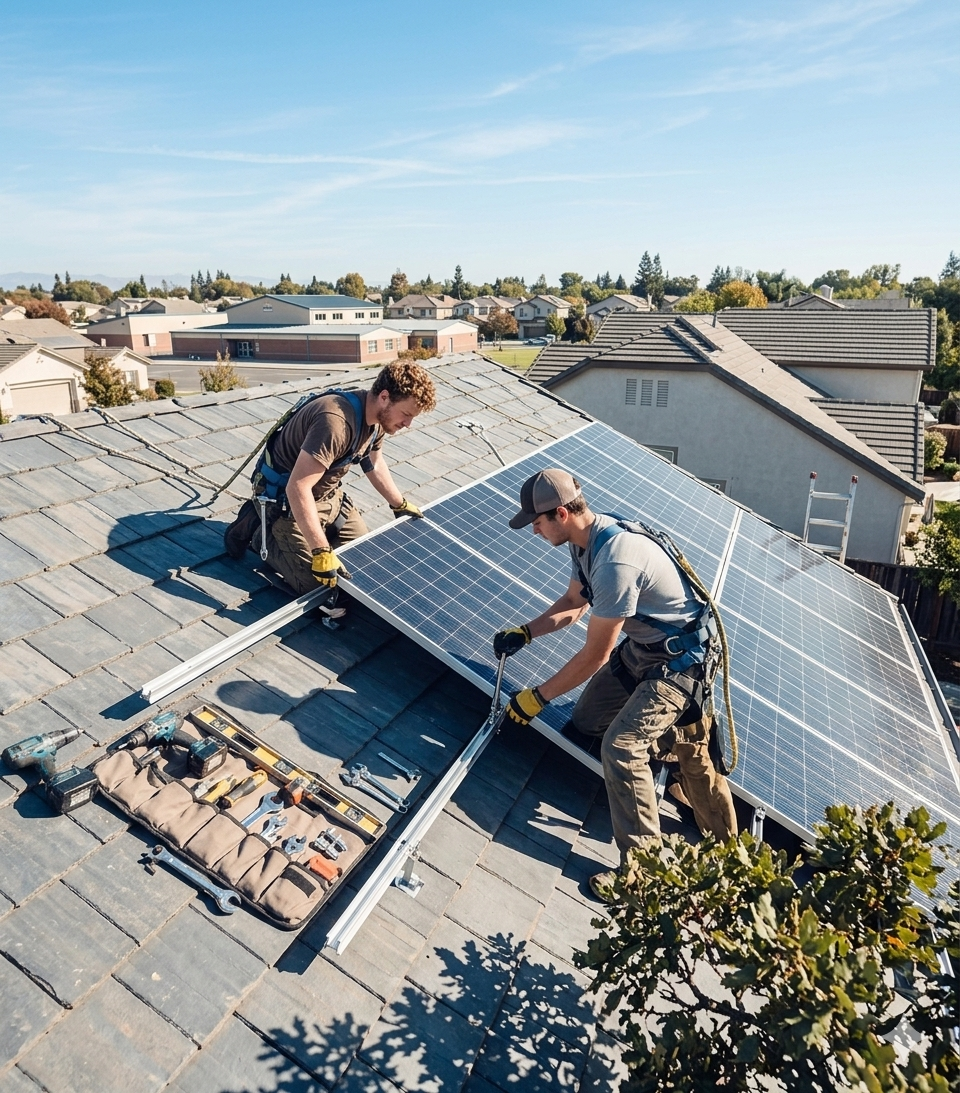
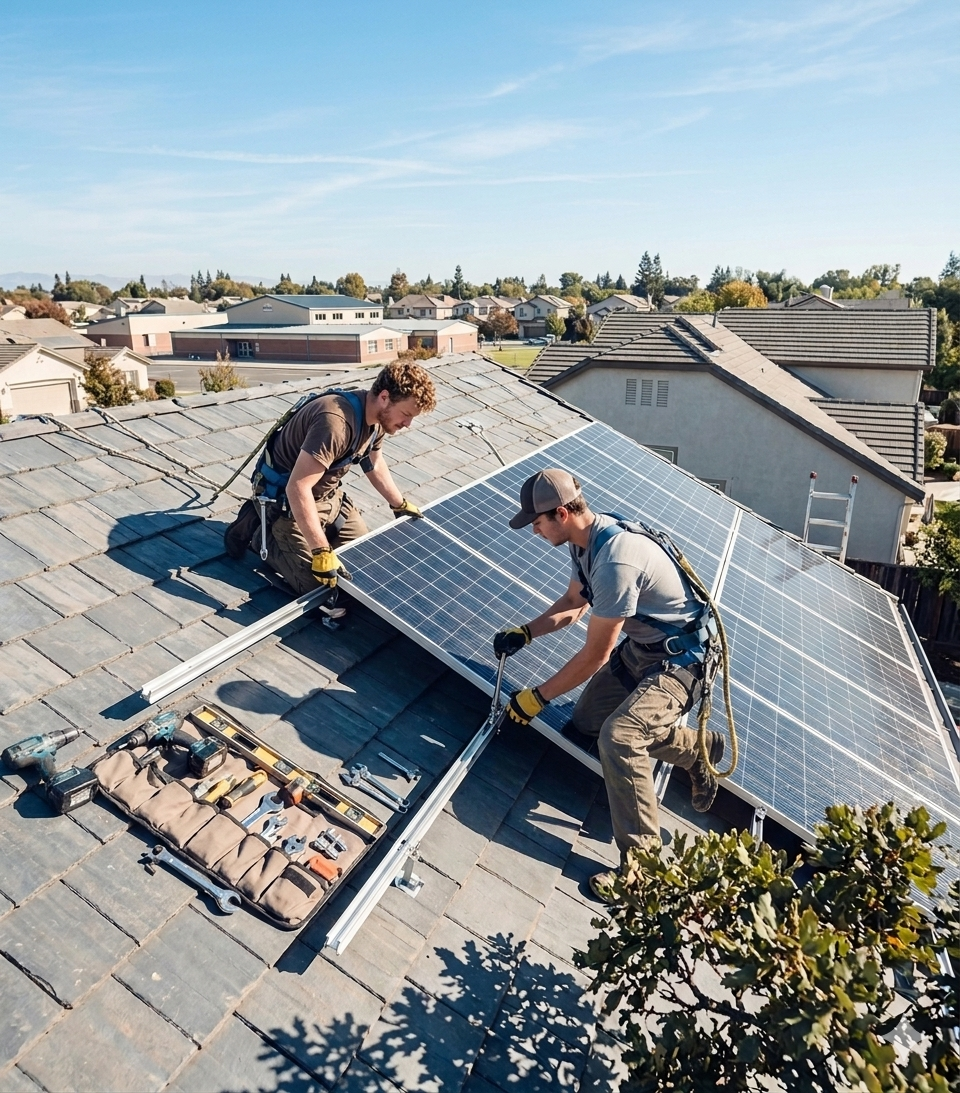
Solutions image change

diff --git a/app/globals.css b/app/globals.css
@@ -596,8 +596,8 @@ a { color: inherit; text-decoration: inherit; }
 }
 
 .solution-img {
-  width: 180px;
-  height: 180px;
+  width: 300px;
+  height: 250px;
   object-fit: contain;
   transition: transform 0.45s cubic-bezier(0.25,0.46,0.45,0.94), filter 0.45s ease;
 }
@@ -1598,4 +1598,62 @@ a { color: inherit; text-decoration: inherit; }
 .reveal.revealed .luminarix-text {
   stroke-dashoffset: 0;
   opacity: 1;
+}
+
+
+/* ── MOBILE RESPONSIVE FIXES ── */
+@media (max-width: 767px) {
+
+  /* Solutions */
+  .solutions-grid { grid-template-columns: 1fr; }
+  .solution-card { border-right: none; border-bottom: 1px solid rgba(255,255,255,0.1); padding: 40px 24px 48px; }
+  .solution-card--right { border-bottom: none; }
+
+  /* Who We Work With */
+  .wwww-grid { grid-template-columns: 1fr; }
+  .wwww-card { border-right: none; border-bottom: 1px solid rgba(255,255,255,0.12); }
+  .wwww-card--right { border-bottom: none; }
+
+  /* Green energy */
+  .green-energy-grid { grid-template-columns: 1fr; gap: 32px; }
+  .green-energy-img-wrap { justify-content: center; padding-right: 0; }
+
+  /* Tools */
+  .tools-header { grid-template-columns: 1fr; gap: 20px; }
+  .tool-card { grid-template-columns: 1fr; }
+  .tool-card-content { padding: 32px 24px; }
+
+  /* Experience */
+  .exp-logo-grid { grid-template-columns: repeat(2, 1fr); }
+  .exp-counter-row { flex-direction: column; gap: 8px; }
+  .exp-big-number { font-size: clamp(4rem, 18vw, 8rem); }
+
+  /* About */
+  .about-split { grid-template-columns: 1fr; }
+  .about-split-img { min-height: 300px; }
+  .about-split-content { padding: 40px 24px; }
+
+  /* CTA */
+  .cta-block-btns { flex-direction: column; gap: 16px; }
+  .cta-block-or { display: none; }
+
+  /* Footer */
+  .footer-layout { grid-template-columns: 1fr; }
+  .footer-left { border-right: none; border-bottom: 1px solid rgba(255,255,255,0.08); padding: 40px 24px; }
+  .footer-connect-col { border-right: none; border-bottom: 1px solid rgba(255,255,255,0.08); padding: 24px; flex-direction: row; align-items: center; gap: 16px; }
+  .footer-socials { flex-direction: row; flex-wrap: wrap; gap: 8px; }
+  .footer-main-col { padding: 24px; }
+  .footer-link-cols { grid-template-columns: 1fr 1fr; gap: 20px; }
+
+  /* Consultation */
+  .consult-inner { grid-template-columns: 1fr; }
+  .consult-card { max-width: 280px; margin: 0 auto; }
+}
+
+@media (max-width: 479px) {
+  .footer-link-cols { grid-template-columns: 1fr; }
+  .exp-logo-grid { grid-template-columns: repeat(2, 1fr); }
+  .wwww-card { padding: 32px 20px; }
+  .solution-card { padding: 32px 20px; }
+  .tool-card-content { padding: 24px 20px; }
 }

diff --git a/app/components/SolutionsSection.tsx b/app/components/SolutionsSection.tsx
@@ -13,7 +13,7 @@ export default function SolutionsSection() {
           <div ref={card1Ref as any} className="solution-card reveal">
             <div className="solution-img-wrap">
               <img
-                src="/solar-solutions.svg"
+                src="/solar-solutions.png"
                 alt="Graphic of solar panels."
                 className="solution-img"
               />
@@ -39,7 +39,7 @@ export default function SolutionsSection() {
           <div ref={card2Ref as any} className="solution-card solution-card--right reveal">
             <div className="solution-img-wrap">
               <img
-                src="/roofing-solutions.svg"
+                src="/roofing-solutions.png"
                 alt="Graphic of roofing tiles."
                 className="solution-img"
               />